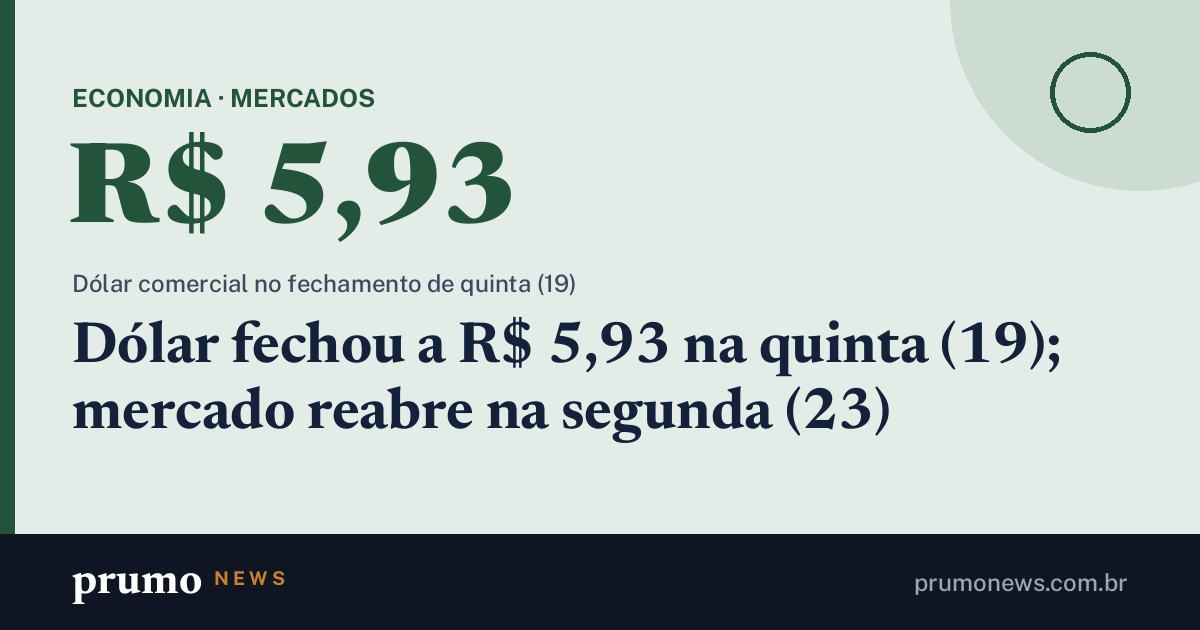
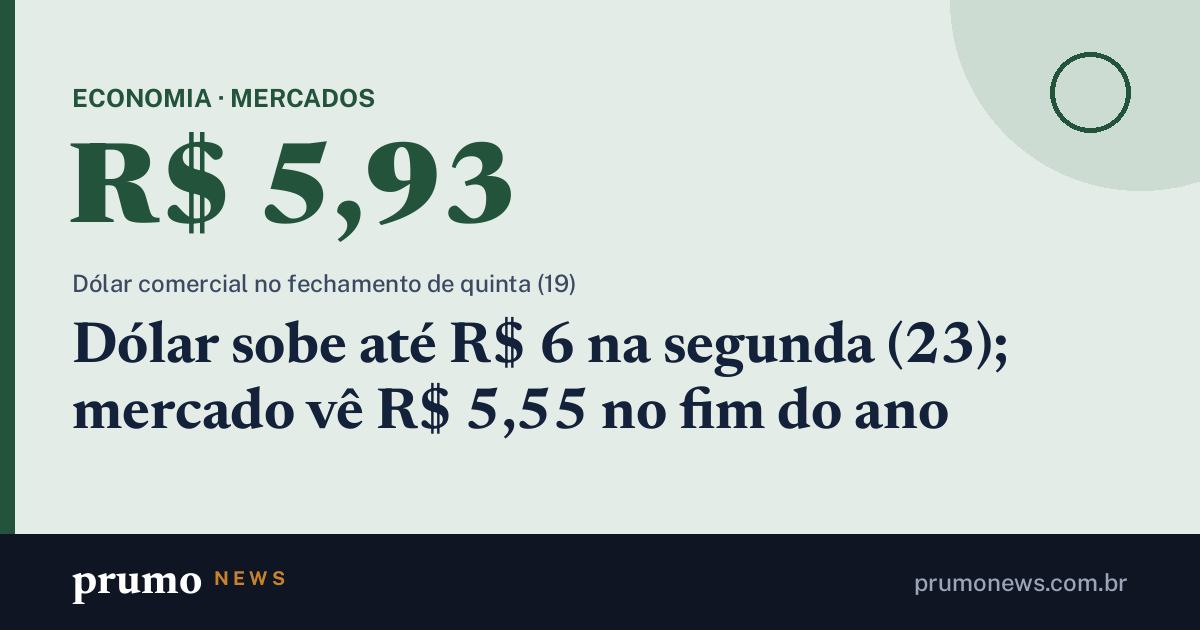
Páginas de compartilhamento 23/11 14h52

Changed region(s): [[0.185, 0.4825, 0.8942, 0.6937]]

diff --git a/m/ajuste-fiscal-lula-4.html b/m/ajuste-fiscal-lula-4.html
@@ -3,16 +3,16 @@
 <head>
 <meta charset="utf-8">
 <meta name="viewport" content="width=device-width, initial-scale=1">
-<title>Câmara vota o ajuste fiscal na segunda (23); dólar abre a R$ 5,98 · Prumo News</title>
-<meta name="description" content="O governo precisa de 257 votos; o relator mantém o texto do Senado, com economia de até R$ 50 bi em 2027, e sem mudanças o projeto vai à sanção.">
-<link rel="canonical" href="https://prumonews.com.br/m/camara-vota-o-ajuste-fiscal-na-segunda-23-dolar-abre-a-r-5-98.html">
+<title>Câmara vota o ajuste fiscal na segunda (23); dólar sobe até R$ 6 · Prumo News</title>
+<meta name="description" content="O governo precisa de 257 votos à noite; o relator mantém o texto do Senado, e o dólar subiu até R$ 6 com o ajuste no foco.">
+<link rel="canonical" href="https://prumonews.com.br/m/camara-vota-o-ajuste-fiscal-na-segunda-23-dolar-sobe-ate-r-6.html">
 <meta property="og:type" content="article">
 <meta property="og:site_name" content="Prumo News">
 <meta property="og:locale" content="pt_BR">
-<meta property="og:title" content="Câmara vota o ajuste fiscal na segunda (23); dólar abre a R$ 5,98">
-<meta property="og:description" content="O governo precisa de 257 votos; o relator mantém o texto do Senado, com economia de até R$ 50 bi em 2027, e sem mudanças o projeto vai à sanção.">
-<meta property="og:url" content="https://prumonews.com.br/m/camara-vota-o-ajuste-fiscal-na-segunda-23-dolar-abre-a-r-5-98.html">
-<meta property="og:image" content="https://prumonews.com.br/m/og/ajuste-fiscal-lula-4.jpg?v=36283ebe7f">
+<meta property="og:title" content="Câmara vota o ajuste fiscal na segunda (23); dólar sobe até R$ 6">
+<meta property="og:description" content="O governo precisa de 257 votos à noite; o relator mantém o texto do Senado, e o dólar subiu até R$ 6 com o ajuste no foco.">
+<meta property="og:url" content="https://prumonews.com.br/m/camara-vota-o-ajuste-fiscal-na-segunda-23-dolar-sobe-ate-r-6.html">
+<meta property="og:image" content="https://prumonews.com.br/m/og/ajuste-fiscal-lula-4.jpg?v=e12dc967e5">
 <meta property="og:image:width" content="1200">
 <meta property="og:image:height" content="630">
 <meta name="twitter:card" content="summary_large_image">
@@ -20,5 +20,5 @@
 <script>location.replace("/#m=ajuste-fiscal-lula-4")</script>
 <style>body{margin:0;font:16px/1.5 system-ui,sans-serif;background:#0f1522;color:#e8ecf2;display:grid;place-items:center;min-height:100vh;padding:24px;box-sizing:border-box;text-align:center}a{color:#e6b673}</style>
 </head>
-<body><p><a href="/#m=ajuste-fiscal-lula-4">Câmara vota o ajuste fiscal na segunda (23); dólar abre a R$ 5,98</a><br>Abrindo no Prumo News…</p></body>
+<body><p><a href="/#m=ajuste-fiscal-lula-4">Câmara vota o ajuste fiscal na segunda (23); dólar sobe até R$ 6</a><br>Abrindo no Prumo News…</p></body>
 </html>

diff --git a/m/dolar-volta-acima-5.html b/m/dolar-volta-acima-5.html
@@ -3,16 +3,16 @@
 <head>
 <meta charset="utf-8">
 <meta name="viewport" content="width=device-width, initial-scale=1">
-<title>Dólar fechou a R$ 5,93 na quinta (19); mercado reabre na segunda (23) · Prumo News</title>
-<meta name="description" content="O Ibovespa fechou a 166.376 pontos (-0,69%); a B3 reabre na segunda (23), dia da sessão da Câmara sobre o ajuste fiscal.">
-<link rel="canonical" href="https://prumonews.com.br/m/dolar-fechou-a-na-mercado-reabre-na-segunda-23.html">
+<title>Dólar sobe até R$ 6 na segunda (23); mercado vê R$ 5,55 no fim do ano · Prumo News</title>
+<meta name="description" content="O Ibovespa caiu e a Câmara vota o ajuste fiscal à noite; o último fechamento do dólar foi a R$ 5,93 na quinta (19).">
+<link rel="canonical" href="https://prumonews.com.br/m/dolar-sobe-ate-r-6-na-segunda-23-mercado-ve-r-5-55-no-fim-do-ano.html">
 <meta property="og:type" content="article">
 <meta property="og:site_name" content="Prumo News">
 <meta property="og:locale" content="pt_BR">
-<meta property="og:title" content="Dólar fechou a R$ 5,93 na quinta (19); mercado reabre na segunda (23)">
-<meta property="og:description" content="O Ibovespa fechou a 166.376 pontos (-0,69%); a B3 reabre na segunda (23), dia da sessão da Câmara sobre o ajuste fiscal.">
-<meta property="og:url" content="https://prumonews.com.br/m/dolar-fechou-a-na-mercado-reabre-na-segunda-23.html">
-<meta property="og:image" content="https://prumonews.com.br/m/og/dolar-volta-acima-5.jpg?v=aafe8cce44">
+<meta property="og:title" content="Dólar sobe até R$ 6 na segunda (23); mercado vê R$ 5,55 no fim do ano">
+<meta property="og:description" content="O Ibovespa caiu e a Câmara vota o ajuste fiscal à noite; o último fechamento do dólar foi a R$ 5,93 na quinta (19).">
+<meta property="og:url" content="https://prumonews.com.br/m/dolar-sobe-ate-r-6-na-segunda-23-mercado-ve-r-5-55-no-fim-do-ano.html">
+<meta property="og:image" content="https://prumonews.com.br/m/og/dolar-volta-acima-5.jpg?v=aaaf195161">
 <meta property="og:image:width" content="1200">
 <meta property="og:image:height" content="630">
 <meta name="twitter:card" content="summary_large_image">
@@ -20,5 +20,5 @@
 <script>location.replace("/#m=dolar-volta-acima-5")</script>
 <style>body{margin:0;font:16px/1.5 system-ui,sans-serif;background:#0f1522;color:#e8ecf2;display:grid;place-items:center;min-height:100vh;padding:24px;box-sizing:border-box;text-align:center}a{color:#e6b673}</style>
 </head>
-<body><p><a href="/#m=dolar-volta-acima-5">Dólar fechou a R$ 5,93 na quinta (19); mercado reabre na segunda (23)</a><br>Abrindo no Prumo News…</p></body>
+<body><p><a href="/#m=dolar-volta-acima-5">Dólar sobe até R$ 6 na segunda (23); mercado vê R$ 5,55 no fim do ano</a><br>Abrindo no Prumo News…</p></body>
 </html>

diff --git a/m/caso-master.html b/m/caso-master.html
@@ -3,20 +3,20 @@
 <head>
 <meta charset="utf-8">
 <meta name="viewport" content="width=device-width, initial-scale=1">
-<title>Disputa pela relatoria do caso Master se acirra no STF · Prumo News</title>
-<meta name="description" content="Aliados de Mendonça veem o relatório enviado à PGR como tentativa de afastá-lo; Gilmar quer o caso no plenário.">
-<link rel="canonical" href="https://prumonews.com.br/m/disputa-pela-relatoria-do-caso-master-se-acirra-no-stf.html">
+<title>Novo pede ao STF afastamento de chefes da PF no caso Master · Prumo News</title>
+<meta name="description" content="O Novo diz que a troca de delegados do caso é &quot;clara anomalia institucional&quot;; a disputa pela relatoria segue no STF.">
+<link rel="canonical" href="https://prumonews.com.br/m/novo-pede-ao-stf-afastamento-de-chefes-da-pf-no-caso-master.html">
 <meta property="og:type" content="article">
 <meta property="og:site_name" content="Prumo News">
 <meta property="og:locale" content="pt_BR">
-<meta property="og:title" content="Disputa pela relatoria do caso Master se acirra no STF">
-<meta property="og:description" content="Aliados de Mendonça veem o relatório enviado à PGR como tentativa de afastá-lo; Gilmar quer o caso no plenário.">
-<meta property="og:url" content="https://prumonews.com.br/m/disputa-pela-relatoria-do-caso-master-se-acirra-no-stf.html">
+<meta property="og:title" content="Novo pede ao STF afastamento de chefes da PF no caso Master">
+<meta property="og:description" content="O Novo diz que a troca de delegados do caso é &quot;clara anomalia institucional&quot;; a disputa pela relatoria segue no STF.">
+<meta property="og:url" content="https://prumonews.com.br/m/novo-pede-ao-stf-afastamento-de-chefes-da-pf-no-caso-master.html">
 <meta property="og:image" content="https://upload.wikimedia.org/wikipedia/commons/thumb/7/73/Supremo_Tribunal_Federal_%281091707775%29.jpg/960px-Supremo_Tribunal_Federal_%281091707775%29.jpg">
 <meta name="twitter:card" content="summary_large_image">
 <meta name="theme-color" content="#0f1522">
 <script>location.replace("/#m=caso-master")</script>
 <style>body{margin:0;font:16px/1.5 system-ui,sans-serif;background:#0f1522;color:#e8ecf2;display:grid;place-items:center;min-height:100vh;padding:24px;box-sizing:border-box;text-align:center}a{color:#e6b673}</style>
 </head>
-<body><p><a href="/#m=caso-master">Disputa pela relatoria do caso Master se acirra no STF</a><br>Abrindo no Prumo News…</p></body>
+<body><p><a href="/#m=caso-master">Novo pede ao STF afastamento de chefes da PF no caso Master</a><br>Abrindo no Prumo News…</p></body>
 </html>

diff --git a/m/lula-messias-stf-jantar.html b/m/lula-messias-stf-jantar.html
@@ -1,0 +1,22 @@
+<!doctype html>
+<html lang="pt-BR">
+<head>
+<meta charset="utf-8">
+<meta name="viewport" content="width=device-width, initial-scale=1">
+<title>Lula reafirma Messias para a vaga de Barroso em jantar com ministros · Prumo News</title>
+<meta name="description" content="O jantar com ministros do STF e a cúpula do Congresso tratou do substituto de Barroso.">
+<link rel="canonical" href="https://prumonews.com.br/m/lula-reafirma-messias-para-a-vaga-de-barroso-em-jantar-com-ministros.html">
+<meta property="og:type" content="article">
+<meta property="og:site_name" content="Prumo News">
+<meta property="og:locale" content="pt_BR">
+<meta property="og:title" content="Lula reafirma Messias para a vaga de Barroso em jantar com ministros">
+<meta property="og:description" content="O jantar com ministros do STF e a cúpula do Congresso tratou do substituto de Barroso.">
+<meta property="og:url" content="https://prumonews.com.br/m/lula-reafirma-messias-para-a-vaga-de-barroso-em-jantar-com-ministros.html">
+<meta property="og:image" content="https://upload.wikimedia.org/wikipedia/commons/thumb/8/88/Foto_oficial_do_Presidente_da_Rep%C3%BAblica_Luiz_In%C3%A1cio_Lula_da_Silva_%283x4%29.jpg/960px-Foto_oficial_do_Presidente_da_Rep%C3%BAblica_Luiz_In%C3%A1cio_Lula_da_Silva_%283x4%29.jpg">
+<meta name="twitter:card" content="summary_large_image">
+<meta name="theme-color" content="#0f1522">
+<script>location.replace("/#m=lula-messias-stf-jantar")</script>
+<style>body{margin:0;font:16px/1.5 system-ui,sans-serif;background:#0f1522;color:#e8ecf2;display:grid;place-items:center;min-height:100vh;padding:24px;box-sizing:border-box;text-align:center}a{color:#e6b673}</style>
+</head>
+<body><p><a href="/#m=lula-messias-stf-jantar">Lula reafirma Messias para a vaga de Barroso em jantar com ministros</a><br>Abrindo no Prumo News…</p></body>
+</html>

diff --git a/m/lula-reafirma-messias-para-a-vaga-de-barroso-em-jantar-com-ministros.html b/m/lula-reafirma-messias-para-a-vaga-de-barroso-em-jantar-com-ministros.html
@@ -1,0 +1,22 @@
+<!doctype html>
+<html lang="pt-BR">
+<head>
+<meta charset="utf-8">
+<meta name="viewport" content="width=device-width, initial-scale=1">
+<title>Lula reafirma Messias para a vaga de Barroso em jantar com ministros · Prumo News</title>
+<meta name="description" content="O jantar com ministros do STF e a cúpula do Congresso tratou do substituto de Barroso.">
+<link rel="canonical" href="https://prumonews.com.br/m/lula-reafirma-messias-para-a-vaga-de-barroso-em-jantar-com-ministros.html">
+<meta property="og:type" content="article">
+<meta property="og:site_name" content="Prumo News">
+<meta property="og:locale" content="pt_BR">
+<meta property="og:title" content="Lula reafirma Messias para a vaga de Barroso em jantar com ministros">
+<meta property="og:description" content="O jantar com ministros do STF e a cúpula do Congresso tratou do substituto de Barroso.">
+<meta property="og:url" content="https://prumonews.com.br/m/lula-reafirma-messias-para-a-vaga-de-barroso-em-jantar-com-ministros.html">
+<meta property="og:image" content="https://upload.wikimedia.org/wikipedia/commons/thumb/8/88/Foto_oficial_do_Presidente_da_Rep%C3%BAblica_Luiz_In%C3%A1cio_Lula_da_Silva_%283x4%29.jpg/960px-Foto_oficial_do_Presidente_da_Rep%C3%BAblica_Luiz_In%C3%A1cio_Lula_da_Silva_%283x4%29.jpg">
+<meta name="twitter:card" content="summary_large_image">
+<meta name="theme-color" content="#0f1522">
+<script>location.replace("/#m=lula-messias-stf-jantar")</script>
+<style>body{margin:0;font:16px/1.5 system-ui,sans-serif;background:#0f1522;color:#e8ecf2;display:grid;place-items:center;min-height:100vh;padding:24px;box-sizing:border-box;text-align:center}a{color:#e6b673}</style>
+</head>
+<body><p><a href="/#m=lula-messias-stf-jantar">Lula reafirma Messias para a vaga de Barroso em jantar com ministros</a><br>Abrindo no Prumo News…</p></body>
+</html>

diff --git a/m/moraes-manda-notificar-flavio-por-edital-em-acao-por-calunia-contra.html b/m/moraes-manda-notificar-flavio-por-edital-em-acao-por-calunia-contra.html
@@ -1,0 +1,22 @@
+<!doctype html>
+<html lang="pt-BR">
+<head>
+<meta charset="utf-8">
+<meta name="viewport" content="width=device-width, initial-scale=1">
+<title>Moraes manda notificar Flávio por edital em ação por calúnia contra Lula · Prumo News</title>
+<meta name="description" content="A citação por edital destrava a resposta do senador à denúncia da PGR por calúnia contra Lula.">
+<link rel="canonical" href="https://prumonews.com.br/m/moraes-manda-notificar-flavio-por-edital-em-acao-por-calunia-contra.html">
+<meta property="og:type" content="article">
+<meta property="og:site_name" content="Prumo News">
+<meta property="og:locale" content="pt_BR">
+<meta property="og:title" content="Moraes manda notificar Flávio por edital em ação por calúnia contra Lula">
+<meta property="og:description" content="A citação por edital destrava a resposta do senador à denúncia da PGR por calúnia contra Lula.">
+<meta property="og:url" content="https://prumonews.com.br/m/moraes-manda-notificar-flavio-por-edital-em-acao-por-calunia-contra.html">
+<meta property="og:image" content="https://upload.wikimedia.org/wikipedia/commons/thumb/5/5c/Alexandre_de_Moraes_na_sabatina_para_o_STF_6.jpg/960px-Alexandre_de_Moraes_na_sabatina_para_o_STF_6.jpg">
+<meta name="twitter:card" content="summary_large_image">
+<meta name="theme-color" content="#0f1522">
+<script>location.replace("/#m=moraes-notifica-flavio-edital-calunia")</script>
+<style>body{margin:0;font:16px/1.5 system-ui,sans-serif;background:#0f1522;color:#e8ecf2;display:grid;place-items:center;min-height:100vh;padding:24px;box-sizing:border-box;text-align:center}a{color:#e6b673}</style>
+</head>
+<body><p><a href="/#m=moraes-notifica-flavio-edital-calunia">Moraes manda notificar Flávio por edital em ação por calúnia contra Lula</a><br>Abrindo no Prumo News…</p></body>
+</html>

diff --git a/m/moraes-notifica-flavio-edital-calunia.html b/m/moraes-notifica-flavio-edital-calunia.html
@@ -1,0 +1,22 @@
+<!doctype html>
+<html lang="pt-BR">
+<head>
+<meta charset="utf-8">
+<meta name="viewport" content="width=device-width, initial-scale=1">
+<title>Moraes manda notificar Flávio por edital em ação por calúnia contra Lula · Prumo News</title>
+<meta name="description" content="A citação por edital destrava a resposta do senador à denúncia da PGR por calúnia contra Lula.">
+<link rel="canonical" href="https://prumonews.com.br/m/moraes-manda-notificar-flavio-por-edital-em-acao-por-calunia-contra.html">
+<meta property="og:type" content="article">
+<meta property="og:site_name" content="Prumo News">
+<meta property="og:locale" content="pt_BR">
+<meta property="og:title" content="Moraes manda notificar Flávio por edital em ação por calúnia contra Lula">
+<meta property="og:description" content="A citação por edital destrava a resposta do senador à denúncia da PGR por calúnia contra Lula.">
+<meta property="og:url" content="https://prumonews.com.br/m/moraes-manda-notificar-flavio-por-edital-em-acao-por-calunia-contra.html">
+<meta property="og:image" content="https://upload.wikimedia.org/wikipedia/commons/thumb/5/5c/Alexandre_de_Moraes_na_sabatina_para_o_STF_6.jpg/960px-Alexandre_de_Moraes_na_sabatina_para_o_STF_6.jpg">
+<meta name="twitter:card" content="summary_large_image">
+<meta name="theme-color" content="#0f1522">
+<script>location.replace("/#m=moraes-notifica-flavio-edital-calunia")</script>
+<style>body{margin:0;font:16px/1.5 system-ui,sans-serif;background:#0f1522;color:#e8ecf2;display:grid;place-items:center;min-height:100vh;padding:24px;box-sizing:border-box;text-align:center}a{color:#e6b673}</style>
+</head>
+<body><p><a href="/#m=moraes-notifica-flavio-edital-calunia">Moraes manda notificar Flávio por edital em ação por calúnia contra Lula</a><br>Abrindo no Prumo News…</p></body>
+</html>

diff --git a/m/cvm-suspende-o-registro-de-5-companhias-entre-elas-brb-e-ambipar.html b/m/cvm-suspende-o-registro-de-5-companhias-entre-elas-brb-e-ambipar.html
@@ -1,0 +1,24 @@
+<!doctype html>
+<html lang="pt-BR">
+<head>
+<meta charset="utf-8">
+<meta name="viewport" content="width=device-width, initial-scale=1">
+<title>CVM suspende o registro de 5 companhias, entre elas BRB e Ambipar · Prumo News</title>
+<meta name="description" content="O BRB, há mais de um ano sem divulgar balanço, fica impedido de negociar ações enquanto durar a suspensão.">
+<link rel="canonical" href="https://prumonews.com.br/m/cvm-suspende-o-registro-de-5-companhias-entre-elas-brb-e-ambipar.html">
+<meta property="og:type" content="article">
+<meta property="og:site_name" content="Prumo News">
+<meta property="og:locale" content="pt_BR">
+<meta property="og:title" content="CVM suspende o registro de 5 companhias, entre elas BRB e Ambipar">
+<meta property="og:description" content="O BRB, há mais de um ano sem divulgar balanço, fica impedido de negociar ações enquanto durar a suspensão.">
+<meta property="og:url" content="https://prumonews.com.br/m/cvm-suspende-o-registro-de-5-companhias-entre-elas-brb-e-ambipar.html">
+<meta property="og:image" content="https://prumonews.com.br/m/og/cvm-suspende-registro-brb-ambipar.jpg?v=591f32b965">
+<meta property="og:image:width" content="1200">
+<meta property="og:image:height" content="630">
+<meta name="twitter:card" content="summary_large_image">
+<meta name="theme-color" content="#0f1522">
+<script>location.replace("/#m=cvm-suspende-registro-brb-ambipar")</script>
+<style>body{margin:0;font:16px/1.5 system-ui,sans-serif;background:#0f1522;color:#e8ecf2;display:grid;place-items:center;min-height:100vh;padding:24px;box-sizing:border-box;text-align:center}a{color:#e6b673}</style>
+</head>
+<body><p><a href="/#m=cvm-suspende-registro-brb-ambipar">CVM suspende o registro de 5 companhias, entre elas BRB e Ambipar</a><br>Abrindo no Prumo News…</p></body>
+</html>

diff --git a/m/cvm-suspende-registro-brb-ambipar.html b/m/cvm-suspende-registro-brb-ambipar.html
@@ -1,0 +1,24 @@
+<!doctype html>
+<html lang="pt-BR">
+<head>
+<meta charset="utf-8">
+<meta name="viewport" content="width=device-width, initial-scale=1">
+<title>CVM suspende o registro de 5 companhias, entre elas BRB e Ambipar · Prumo News</title>
+<meta name="description" content="O BRB, há mais de um ano sem divulgar balanço, fica impedido de negociar ações enquanto durar a suspensão.">
+<link rel="canonical" href="https://prumonews.com.br/m/cvm-suspende-o-registro-de-5-companhias-entre-elas-brb-e-ambipar.html">
+<meta property="og:type" content="article">
+<meta property="og:site_name" content="Prumo News">
+<meta property="og:locale" content="pt_BR">
+<meta property="og:title" content="CVM suspende o registro de 5 companhias, entre elas BRB e Ambipar">
+<meta property="og:description" content="O BRB, há mais de um ano sem divulgar balanço, fica impedido de negociar ações enquanto durar a suspensão.">
+<meta property="og:url" content="https://prumonews.com.br/m/cvm-suspende-o-registro-de-5-companhias-entre-elas-brb-e-ambipar.html">
+<meta property="og:image" content="https://prumonews.com.br/m/og/cvm-suspende-registro-brb-ambipar.jpg?v=591f32b965">
+<meta property="og:image:width" content="1200">
+<meta property="og:image:height" content="630">
+<meta name="twitter:card" content="summary_large_image">
+<meta name="theme-color" content="#0f1522">
+<script>location.replace("/#m=cvm-suspende-registro-brb-ambipar")</script>
+<style>body{margin:0;font:16px/1.5 system-ui,sans-serif;background:#0f1522;color:#e8ecf2;display:grid;place-items:center;min-height:100vh;padding:24px;box-sizing:border-box;text-align:center}a{color:#e6b673}</style>
+</head>
+<body><p><a href="/#m=cvm-suspende-registro-brb-ambipar">CVM suspende o registro de 5 companhias, entre elas BRB e Ambipar</a><br>Abrindo no Prumo News…</p></body>
+</html>

diff --git a/m/dolar-sobe-ate-r-6-na-segunda-23-mercado-ve-r-5-55-no-fim-do-ano.html b/m/dolar-sobe-ate-r-6-na-segunda-23-mercado-ve-r-5-55-no-fim-do-ano.html
@@ -1,0 +1,24 @@
+<!doctype html>
+<html lang="pt-BR">
+<head>
+<meta charset="utf-8">
+<meta name="viewport" content="width=device-width, initial-scale=1">
+<title>Dólar sobe até R$ 6 na segunda (23); mercado vê R$ 5,55 no fim do ano · Prumo News</title>
+<meta name="description" content="O Ibovespa caiu e a Câmara vota o ajuste fiscal à noite; o último fechamento do dólar foi a R$ 5,93 na quinta (19).">
+<link rel="canonical" href="https://prumonews.com.br/m/dolar-sobe-ate-r-6-na-segunda-23-mercado-ve-r-5-55-no-fim-do-ano.html">
+<meta property="og:type" content="article">
+<meta property="og:site_name" content="Prumo News">
+<meta property="og:locale" content="pt_BR">
+<meta property="og:title" content="Dólar sobe até R$ 6 na segunda (23); mercado vê R$ 5,55 no fim do ano">
+<meta property="og:description" content="O Ibovespa caiu e a Câmara vota o ajuste fiscal à noite; o último fechamento do dólar foi a R$ 5,93 na quinta (19).">
+<meta property="og:url" content="https://prumonews.com.br/m/dolar-sobe-ate-r-6-na-segunda-23-mercado-ve-r-5-55-no-fim-do-ano.html">
+<meta property="og:image" content="https://prumonews.com.br/m/og/dolar-volta-acima-5.jpg?v=aaaf195161">
+<meta property="og:image:width" content="1200">
+<meta property="og:image:height" content="630">
+<meta name="twitter:card" content="summary_large_image">
+<meta name="theme-color" content="#0f1522">
+<script>location.replace("/#m=dolar-volta-acima-5")</script>
+<style>body{margin:0;font:16px/1.5 system-ui,sans-serif;background:#0f1522;color:#e8ecf2;display:grid;place-items:center;min-height:100vh;padding:24px;box-sizing:border-box;text-align:center}a{color:#e6b673}</style>
+</head>
+<body><p><a href="/#m=dolar-volta-acima-5">Dólar sobe até R$ 6 na segunda (23); mercado vê R$ 5,55 no fim do ano</a><br>Abrindo no Prumo News…</p></body>
+</html>

diff --git a/m/camara-vota-o-ajuste-fiscal-na-segunda-23-dolar-sobe-ate-r-6.html b/m/camara-vota-o-ajuste-fiscal-na-segunda-23-dolar-sobe-ate-r-6.html
@@ -1,0 +1,24 @@
+<!doctype html>
+<html lang="pt-BR">
+<head>
+<meta charset="utf-8">
+<meta name="viewport" content="width=device-width, initial-scale=1">
+<title>Câmara vota o ajuste fiscal na segunda (23); dólar sobe até R$ 6 · Prumo News</title>
+<meta name="description" content="O governo precisa de 257 votos à noite; o relator mantém o texto do Senado, e o dólar subiu até R$ 6 com o ajuste no foco.">
+<link rel="canonical" href="https://prumonews.com.br/m/camara-vota-o-ajuste-fiscal-na-segunda-23-dolar-sobe-ate-r-6.html">
+<meta property="og:type" content="article">
+<meta property="og:site_name" content="Prumo News">
+<meta property="og:locale" content="pt_BR">
+<meta property="og:title" content="Câmara vota o ajuste fiscal na segunda (23); dólar sobe até R$ 6">
+<meta property="og:description" content="O governo precisa de 257 votos à noite; o relator mantém o texto do Senado, e o dólar subiu até R$ 6 com o ajuste no foco.">
+<meta property="og:url" content="https://prumonews.com.br/m/camara-vota-o-ajuste-fiscal-na-segunda-23-dolar-sobe-ate-r-6.html">
+<meta property="og:image" content="https://prumonews.com.br/m/og/ajuste-fiscal-lula-4.jpg?v=e12dc967e5">
+<meta property="og:image:width" content="1200">
+<meta property="og:image:height" content="630">
+<meta name="twitter:card" content="summary_large_image">
+<meta name="theme-color" content="#0f1522">
+<script>location.replace("/#m=ajuste-fiscal-lula-4")</script>
+<style>body{margin:0;font:16px/1.5 system-ui,sans-serif;background:#0f1522;color:#e8ecf2;display:grid;place-items:center;min-height:100vh;padding:24px;box-sizing:border-box;text-align:center}a{color:#e6b673}</style>
+</head>
+<body><p><a href="/#m=ajuste-fiscal-lula-4">Câmara vota o ajuste fiscal na segunda (23); dólar sobe até R$ 6</a><br>Abrindo no Prumo News…</p></body>
+</html>

diff --git a/m/braskem-acordo-credores-capitalizacao.html b/m/braskem-acordo-credores-capitalizacao.html
@@ -1,0 +1,24 @@
+<!doctype html>
+<html lang="pt-BR">
+<head>
+<meta charset="utf-8">
+<meta name="viewport" content="width=device-width, initial-scale=1">
+<title>Braskem fecha acordo de US$ 4,9 bi com credores; PNA sobe mais de 6% · Prumo News</title>
+<meta name="description" content="A capitalização de US$ 4,9 bilhões levou as ações PNA a subir mais de 6% na B3.">
+<link rel="canonical" href="https://prumonews.com.br/m/braskem-fecha-acordo-de-us-4-9-bi-com-credores-pna-sobe-mais-de-6.html">
+<meta property="og:type" content="article">
+<meta property="og:site_name" content="Prumo News">
+<meta property="og:locale" content="pt_BR">
+<meta property="og:title" content="Braskem fecha acordo de US$ 4,9 bi com credores; PNA sobe mais de 6%">
+<meta property="og:description" content="A capitalização de US$ 4,9 bilhões levou as ações PNA a subir mais de 6% na B3.">
+<meta property="og:url" content="https://prumonews.com.br/m/braskem-fecha-acordo-de-us-4-9-bi-com-credores-pna-sobe-mais-de-6.html">
+<meta property="og:image" content="https://prumonews.com.br/m/og/braskem-acordo-credores-capitalizacao.jpg?v=c473326953">
+<meta property="og:image:width" content="1200">
+<meta property="og:image:height" content="630">
+<meta name="twitter:card" content="summary_large_image">
+<meta name="theme-color" content="#0f1522">
+<script>location.replace("/#m=braskem-acordo-credores-capitalizacao")</script>
+<style>body{margin:0;font:16px/1.5 system-ui,sans-serif;background:#0f1522;color:#e8ecf2;display:grid;place-items:center;min-height:100vh;padding:24px;box-sizing:border-box;text-align:center}a{color:#e6b673}</style>
+</head>
+<body><p><a href="/#m=braskem-acordo-credores-capitalizacao">Braskem fecha acordo de US$ 4,9 bi com credores; PNA sobe mais de 6%</a><br>Abrindo no Prumo News…</p></body>
+</html>
